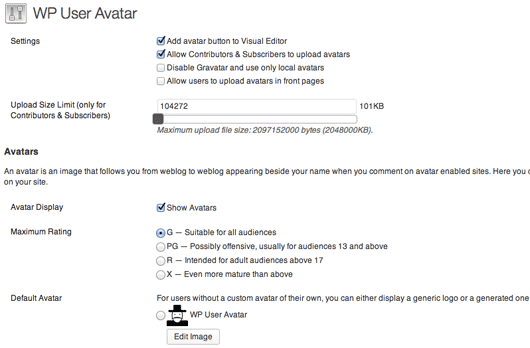
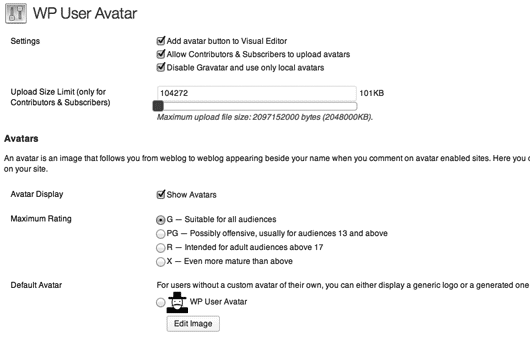
Update script loading and translations.

diff --git a/includes/tinymce/editor_plugin.js b/includes/tinymce/editor_plugin.js
@@ -1,1 +1,1 @@
-(function(){tinymce.PluginManager.requireLangPack('wpUserAvatar');tinymce.create('tinymce.plugins.wpUserAvatar',{init:function(ed,url){ed.addCommand('mceWpUserAvatar',function(){ed.windowManager.open({file:ajaxurl+'?action=wp_user_avatar_tinymce',width:500,height:265,inline:1},{plugin_url:url})});ed.addButton('wpUserAvatar',{title:'Insert WP User Avatar',cmd:'mceWpUserAvatar',image:url+'/../../images/wp-user-avatar-32x32.png'});ed.onNodeChange.add(function(ed,cm,n){cm.setActive('wpUserAvatar',n.nodeName=='IMG')})},createControl:function(n,cm){return null},getInfo:function(){return{longname:'WP User Avatar',author:'Bangbay Siboliban',authorurl:'http://siboliban.org/',infourl:'http://wordpress.org/extend/plugins/wp-user-avatar/',version:"1.5.2"}}});tinymce.PluginManager.add('wpUserAvatar',tinymce.plugins.wpUserAvatar)})();
+(function(){tinymce.PluginManager.requireLangPack('wpUserAvatar');tinymce.create('tinymce.plugins.wpUserAvatar',{init:function(ed,url){ed.addCommand('mceWpUserAvatar',function(){ed.windowManager.open({file:ajaxurl+'?action=wp_user_avatar_tinymce',width:500,height:265,inline:1},{plugin_url:url})});ed.addButton('wpUserAvatar',{title:'Insert WP User Avatar',cmd:'mceWpUserAvatar',image:url+'/../../images/wp-user-avatar-32x32.png'});ed.onNodeChange.add(function(ed,cm,n){cm.setActive('wpUserAvatar',n.nodeName=='IMG')})},createControl:function(n,cm){return null},getInfo:function(){return{longname:'WP User Avatar',author:'Bangbay Siboliban',authorurl:'http://siboliban.org/',infourl:'http://wordpress.org/extend/plugins/wp-user-avatar/',version:"1.5.3"}}});tinymce.PluginManager.add('wpUserAvatar',tinymce.plugins.wpUserAvatar)})();

diff --git a/includes/tinymce/editor_plugin.src.js b/includes/tinymce/editor_plugin.src.js
@@ -67,7 +67,7 @@
         author    : 'Bangbay Siboliban',
         authorurl : 'http://siboliban.org/',
         infourl   : 'http://wordpress.org/extend/plugins/wp-user-avatar/',
-        version   : "1.5.2"
+        version   : "1.5.3"
       };
     }
   });

diff --git a/wp-user-avatar.php b/wp-user-avatar.php
@@ -1,7 +1,7 @@
 <?php
 /**
  * @package WP User Avatar
- * @version 1.5.2
+ * @version 1.5.3
  */
 /*
 Plugin Name: WP User Avatar
@@ -9,7 +9,7 @@ Plugin URI: http://wordpress.org/plugins/wp-user-avatar/
 Description: Use any image from your WordPress Media Library as a custom user avatar. Add your own Default Avatar.
 Author: Bangbay Siboliban
 Author URI: http://siboliban.org/
-Version: 1.5.2
+Version: 1.5.3
 Text Domain: wp-user-avatar
 Domain Path: /lang/
 */
@@ -20,7 +20,7 @@ if(!defined('ABSPATH')){
 }
 
 // Define paths and variables
-define('WPUA_VERSION', '1.5.2');
+define('WPUA_VERSION', '1.5.3');
 define('WPUA_FOLDER', basename(dirname(__FILE__)));
 define('WPUA_ABSPATH', trailingslashit(str_replace('\\', '/', WP_PLUGIN_DIR.'/'.WPUA_FOLDER)));
 define('WPUA_URLPATH', trailingslashit(plugins_url(WPUA_FOLDER)));
@@ -32,7 +32,6 @@ $show_avatars = get_option('show_avatars');
 $wpua_tinymce = get_option('wp_user_avatar_tinymce');
 $wpua_allow_upload = get_option('wp_user_avatar_allow_upload');
 $wpua_disable_gravatar = get_option('wp_user_avatar_disable_gravatar');
-$wpua_load_scripts = get_option('wp_user_avatar_load_scripts');
 $mustache_original = WPUA_URLPATH.'images/wp-user-avatar.png';
 $mustache_medium = WPUA_URLPATH.'images/wp-user-avatar-300x300.png';
 $mustache_thumbnail = WPUA_URLPATH.'images/wp-user-avatar-150x150.png';
@@ -88,14 +87,9 @@ register_deactivation_hook(WPUA_ABSPATH.'wp-user-avatar.php', 'wpua_deactivate')
 // Settings saved to wp_options
 function wpua_options(){
   add_option('avatar_default_wp_user_avatar', "");
-  add_option('wp_user_avatar_tinymce', '1');
   add_option('wp_user_avatar_allow_upload', '0');
-  if(class_exists('bbPress') || class_exists('theme_my_login')){
-    add_option('wp_user_avatar_load_scripts', '1');
-  } else {
-    add_option('wp_user_avatar_load_scripts', '0');
-  }
   add_option('wp_user_avatar_disable_gravatar', '0');
+  add_option('wp_user_avatar_tinymce', '1');
   add_option('wp_user_avatar_upload_size_limit', '0');
 }
 add_action('admin_init', 'wpua_options');
@@ -263,35 +257,35 @@ function wpua_deactivate(){
 if(!class_exists('wp_user_avatar')){
   class wp_user_avatar{
     function wp_user_avatar(){
-      global $current_screen, $current_user, $pagenow, $show_avatars, $wpua_allow_upload, $wpua_load_scripts, $wpua_upload_size_limit;
+      global $current_screen, $current_user, $pagenow, $show_avatars, $wpua_allow_upload, $wpua_upload_size_limit;
       // Add WPUA to profile
       if(current_user_can('upload_files') || ((bool) $wpua_allow_upload == 1 && is_user_logged_in())){
         add_action('show_user_profile', array('wp_user_avatar', 'wpua_action_show_user_profile'));
         add_action('edit_user_profile', array($this, 'wpua_action_show_user_profile'));
         add_action('personal_options_update', array($this, 'wpua_action_process_option_update'));
         add_action('edit_user_profile_update', array($this, 'wpua_action_process_option_update'));
-        // Prefilter upload size
-        if(!current_user_can('upload_files')){
-          add_filter('wp_handle_upload_prefilter', array($this, 'wpua_handle_upload_prefilter'), 10, 1);
+        // For themes that use this function
+        if(!function_exists('get_current_screen')){
+          require_once(ABSPATH.'wp-admin/includes/screen.php');
         }
-        if(is_admin()){
-          // Add scripts to admin
+        // Load scripts only on profile pages
+        add_action('show_user_profile', array($this, 'wpua_media_upload_scripts'));
+        add_action('edit_user_profile', array($this, 'wpua_media_upload_scripts'));
+        // Add scripts to admin
+        if($pagenow == 'options-discussion.php' || ($pagenow == 'options-general.php' && $_GET['page'] == 'wp-user-avatar')){
           add_action('admin_enqueue_scripts', array($this, 'wpua_media_upload_scripts'));
-          // Admin settings
-          add_action('admin_menu', 'wpua_admin');
-          add_filter('plugin_action_links', array($this, 'wpua_plugin_settings_links'), 10, 2);
-        }
-        // Add scripts to front pages
-        if(!is_admin() && (bool) $wpua_load_scripts == 1){
-          if(!function_exists('get_current_screen')){
-            require_once(ABSPATH.'wp-admin/includes/screen.php');
-          }
-          add_action('wp_enqueue_scripts', array($this, 'wpua_media_upload_scripts'));
         }
         // Only add attachment field for WP 3.4 and older
         if(!function_exists('wp_enqueue_media') && $pagenow == 'media-upload.php'){
           add_filter('attachment_fields_to_edit', array($this, 'wpua_add_attachment_field_to_edit'), 10, 2); 
         }
+        // Prefilter upload size
+        if(!current_user_can('upload_files')){
+          add_filter('wp_handle_upload_prefilter', array($this, 'wpua_handle_upload_prefilter'), 10, 1);
+        }
+        // Admin menu settings
+        add_action('admin_menu', 'wpua_admin');
+        add_filter('plugin_action_links', array($this, 'wpua_plugin_settings_links'), 10, 2);
         // Hide column in Users table if default avatars are enabled
         if(is_admin() && (bool) $show_avatars == 0){
           add_filter('manage_users_columns', array($this, 'wpua_add_column'), 10, 1);
@@ -302,13 +296,13 @@ if(!class_exists('wp_user_avatar')){
 
     // Add to edit user profile
     function wpua_action_show_user_profile($user){
-      global $blog_id, $current_user, $show_avatars, $wpdb, $wpua_upload_size_limit_with_units;
+      global $blog_id, $current_user, $post, $show_avatars, $wpdb, $wpua_allow_upload, $wpua_upload_size_limit_with_units;
       // Get WPUA attachment ID
       $wpua = get_user_meta($user->ID, $wpdb->get_blog_prefix($blog_id).'user_avatar', true);
       // Show remove button if WPUA is set
       $hide_remove = !has_wp_user_avatar($user->ID) ? ' hide-me' : "";
       // If avatars are enabled, get original avatar image or show blank
-      $avatar_medium_src = (is_admin() && (bool) $show_avatars == 1) ? wpua_get_avatar_original($user->user_email, 96) : includes_url().'images/blank.gif';
+      $avatar_medium_src = (bool) $show_avatars == 1 ? wpua_get_avatar_original($user->user_email, 96) : includes_url().'images/blank.gif';
       // Check if user has wp_user_avatar, if not show image from above
       $avatar_medium = has_wp_user_avatar($user->ID) ? get_wp_user_avatar_src($user->ID, 'medium') : $avatar_medium_src;
       // Check if user has wp_user_avatar, if not show image from above
@@ -316,7 +310,7 @@ if(!class_exists('wp_user_avatar')){
       // Change text on message based on current user
       $profile = ($current_user->ID == $user->ID) ? '&ldquo;'.__('Update Profile').'&rdquo;' : '&ldquo;'.__('Update User').'&rdquo;';
     ?>
-      <?php if(class_exists('bbPress') && !is_admin()) : // Add to bbPress profile with same style ?>
+      <?php if(class_exists('bbPress') && !is_admin() && $post->ID == 0) : // Add to bbPress profile with same style ?>
         <h2 class="entry-title"><?php _e('WP User Avatar', 'wp-user-avatar'); ?></h2>
         <fieldset class="bbp-form">
           <legend><?php _e('WP User Avatar', 'wp-user-avatar'); ?></legend>
@@ -352,7 +346,7 @@ if(!class_exists('wp_user_avatar')){
       </p>
       <p><button type="button" class="button<?php echo $hide_remove; ?>" id="wpua-remove" name="wpua-remove"><?php _e('Remove'); ?></button></p>
       <p id="wpua-message"><?php printf(__('Click %s to save your changes', 'wp-user-avatar'), $profile); ?></p>
-      <?php if(class_exists('bbPress') && !is_admin()) : // Add to bbPress profile with same style ?>
+      <?php if(class_exists('bbPress') && !is_admin() && $post->ID == 0) : // Add to bbPress profile with same style ?>
         </fieldset>
       <?php else : // Add to profile with admin style ?>
             </td>
@@ -360,7 +354,7 @@ if(!class_exists('wp_user_avatar')){
         </table>
       <?php endif; ?>
       <?php echo wpua_js($user->display_name, $avatar_medium_src); // Add JS ?>
-      <?php
+    <?php
     }
 
     // Set upload size limit for users without upload_files capability
@@ -495,11 +489,11 @@ if(!class_exists('wp_user_avatar')){
           wp_enqueue_script('thickbox');
           wp_enqueue_style('thickbox');
         }
-         wp_enqueue_script('jquery-ui-slider');
       }
       wp_enqueue_script('wp-user-avatar', WPUA_URLPATH.'js/wp-user-avatar.js', array('jquery'), WPUA_VERSION);
       wp_enqueue_style('wp-user-avatar', WPUA_URLPATH.'css/wp-user-avatar.css', "", WPUA_VERSION);
-      if($pagenow == 'options-general.php'){
+      if($pagenow == 'options-general.php' && $_GET['page'] == 'wp-user-avatar'){
+        wp_enqueue_script('jquery-ui-slider');
         wp_enqueue_style('wp-user-avatar-jqueryui', WPUA_URLPATH.'css/jquery.ui.slider.css', "", null);
       }
     }
@@ -610,11 +604,11 @@ if(!class_exists('wp_user_avatar')){
   // Get original avatar, for when user removes wp_user_avatar
   function wpua_get_avatar_original($id_or_email, $size="", $default="", $alt=""){
     global $avatar_default, $mustache_avatar, $wpua_avatar_default, $wpua_disable_gravatar;
-    // Remove get_avatar filter
+    // Remove get_avatar filter only in admin
     if(is_admin()){
       remove_filter('get_avatar', 'wpua_get_avatar_filter');
     }
-    if($wpua_disable_gravatar != 1){
+    if((bool) $wpua_disable_gravatar != 1){
       // User doesn't have Gravatar and Default Avatar is wp_user_avatar, show custom Default Avatar
       if(!wpua_has_gravatar($id_or_email) && $avatar_default == 'wp_user_avatar'){
         // Show custom Default Avatar
@@ -870,7 +864,7 @@ if(!class_exists('wp_user_avatar')){
 
   // Admin page
   function wpua_options_page(){
-    global $show_avatars, $upload_size_limit_with_units, $wpua_allow_upload, $wpua_disable_gravatar, $wpua_load_scripts, $wpua_tinymce, $wpua_upload_size_limit, $wpua_upload_size_limit_with_units;
+    global $show_avatars, $upload_size_limit_with_units, $wpua_allow_upload, $wpua_disable_gravatar, $wpua_tinymce, $wpua_upload_size_limit, $wpua_upload_size_limit_with_units;
     // Give subscribers edit_posts capability
     if(isset($_GET['settings-updated']) && $_GET['settings-updated'] == 'true' && empty($wpua_allow_upload)){
       wpua_subscriber_remove_cap();
@@ -902,14 +896,10 @@ if(!class_exists('wp_user_avatar')){
                   <input name="wp_user_avatar_disable_gravatar" type="checkbox" id="wp_user_avatar_disable_gravatar" value="1" <?php checked($wpua_disable_gravatar, 1); ?> />
                   <?php _e('Disable Gravatar and use only local avatars', 'wp-user-avatar'); ?>
                 </label>
-                <label for="wp_user_avatar_load_scripts" class="wpua_label">
-                  <input name="wp_user_avatar_load_scripts" type="checkbox" id="wp_user_avatar_load_scripts" value="1" <?php checked($wpua_load_scripts, 1); ?> />
-                  <?php _e('Allow users to upload avatars in front pages', 'wp-user-avatar'); ?>
-                </label>
               </fieldset>
             </td>
           </tr>
-          <tr id="wp-size-upload-limit-settings" valign="top"<?php echo $hide_size; ?>>
+          <tr id="wpua-size-limit" valign="top"<?php echo $hide_size; ?>>
             <th scope="row">
               <label for="wp_user_avatar_upload_size_limit" class="wpua_label">
                 <?php _e('Upload Size Limit (only for Contributors & Subscribers)', 'wp-user-avatar'); ?>
@@ -922,46 +912,7 @@ if(!class_exists('wp_user_avatar')){
                 <span id="wpua-readable-size"><?php echo $wpua_upload_size_limit_with_units; ?></span>
                 <span id="wpua-readable-size-error"><?php printf(__('%s exceeds the maximum upload size for this site.'), ''); ?></span>
                 <div id="wpua-slider"></div>
-                <script type="text/javascript">
-                  jQuery(function(){
-                    // Show size info only if allow uploads is checked
-                    jQuery('#wp_user_avatar_allow_upload').change(function(){
-                      jQuery('#wp-size-upload-limit-settings').toggle(jQuery('#wp_user_avatar_allow_upload').is(':checked'));
-                    });
-                    // Hide Gravatars if disable Gravatars is checked
-                    jQuery('#wp_user_avatar_disable_gravatar').change(function(){
-                      if(jQuery('#wp-avatars').length){
-                        jQuery('#wp-avatars').toggle(!jQuery('#wp_user_avatar_disable_gravatar').is(':checked'));
-                        jQuery('#wp_user_avatar_radio').trigger('click');
-                      }
-                      jQuery('#wpua-message').show();
-                    });
-                    // Add size slider
-                    jQuery('#wpua-slider').slider({
-                      value: <?php echo $wpua_upload_size_limit; ?>,
-                      min: 0,
-                      max: <?php echo wp_max_upload_size(); ?>,
-                      step: 1,
-                      slide: function(event, ui){
-                        jQuery('#wp_user_avatar_upload_size_limit').val(ui.value);
-                        jQuery('#wpua-readable-size').html(Math.floor(ui.value / 1024) + 'KB');
-                        jQuery('#wpua-readable-size-error').hide();
-                        jQuery('#wpua-readable-size').removeClass('wpua-error');
-                      }
-                    });
-                    // Update readable size on keyup
-                    jQuery('#wp_user_avatar_upload_size_limit').keyup(function(){
-                      var wpua_upload_size_limit = jQuery(this).val();
-                      wpua_upload_size_limit = wpua_upload_size_limit.replace(/\D/g, '');
-                      // jQuery(this).val(wpua_upload_size_limit);
-                      jQuery('#wpua-readable-size').html(Math.floor(wpua_upload_size_limit / 1024) + 'KB');
-                      jQuery('#wpua-readable-size-error').toggle(wpua_upload_size_limit > <?php echo wp_max_upload_size(); ?>);
-                      jQuery('#wpua-readable-size').toggleClass('wpua-error', wpua_upload_size_limit > <?php echo wp_max_upload_size(); ?>);
-                    });
-                    jQuery('#wp_user_avatar_upload_size_limit').val(jQuery('#wpua-slider').slider('value'));
-                  });
-                </script>
-                <span class="description"><?php printf(__('Maximum upload file size: %d%s.'), esc_html(wp_max_upload_size()), esc_html(' bytes ('.$upload_size_limit_with_units.')')); ?></span>
+               <span class="description"><?php printf(__('Maximum upload file size: %d%s.'), esc_html(wp_max_upload_size()), esc_html(' bytes ('.$upload_size_limit_with_units.')')); ?></span>
               </fieldset>
             </td>
           </tr>
@@ -1015,7 +966,54 @@ if(!class_exists('wp_user_avatar')){
         <?php submit_button(); ?>
       </form>
     </div>
-    <?php
+  <?php
+    add_action('admin_footer', 'wpua_options_page_scripts');
+  }
+
+  // Admin page scripts
+  function wpua_options_page_scripts(){
+    global $wpua_upload_size_limit;
+  ?>
+    <script type="text/javascript">
+      jQuery(function(){
+        // Show size info only if allow uploads is checked
+        jQuery('#wp_user_avatar_allow_upload').change(function(){
+          jQuery('#wpua-size-limit').toggle(jQuery('#wp_user_avatar_allow_upload').is(':checked'));
+        });
+        // Hide Gravatars if disable Gravatars is checked
+        jQuery('#wp_user_avatar_disable_gravatar').change(function(){
+          if(jQuery('#wp-avatars').length){
+            jQuery('#wp-avatars').toggle(!jQuery('#wp_user_avatar_disable_gravatar').is(':checked'));
+            jQuery('#wp_user_avatar_radio').trigger('click');
+          }
+          jQuery('#wpua-message').show();
+        });
+        // Add size slider
+        jQuery('#wpua-slider').slider({
+          value: <?php echo $wpua_upload_size_limit; ?>,
+          min: 0,
+          max: <?php echo wp_max_upload_size(); ?>,
+          step: 1,
+          slide: function(event, ui){
+            jQuery('#wp_user_avatar_upload_size_limit').val(ui.value);
+            jQuery('#wpua-readable-size').html(Math.floor(ui.value / 1024) + 'KB');
+            jQuery('#wpua-readable-size-error').hide();
+            jQuery('#wpua-readable-size').removeClass('wpua-error');
+          }
+        });
+        // Update readable size on keyup
+        jQuery('#wp_user_avatar_upload_size_limit').keyup(function(){
+          var wpua_upload_size_limit = jQuery(this).val();
+          wpua_upload_size_limit = wpua_upload_size_limit.replace(/\D/g, '');
+          jQuery(this).val(wpua_upload_size_limit);
+          jQuery('#wpua-readable-size').html(Math.floor(wpua_upload_size_limit / 1024) + 'KB');
+          jQuery('#wpua-readable-size-error').toggle(wpua_upload_size_limit > <?php echo wp_max_upload_size(); ?>);
+          jQuery('#wpua-readable-size').toggleClass('wpua-error', wpua_upload_size_limit > <?php echo wp_max_upload_size(); ?>);
+        });
+        jQuery('#wp_user_avatar_upload_size_limit').val(jQuery('#wpua-slider').slider('value'));
+      });
+    </script>
+  <?php
   }
 
   // Whitelist settings
@@ -1023,7 +1021,6 @@ if(!class_exists('wp_user_avatar')){
     register_setting('wpua-settings-group', 'wp_user_avatar_tinymce', 'intval');
     register_setting('wpua-settings-group', 'wp_user_avatar_allow_upload', 'intval');
     register_setting('wpua-settings-group', 'wp_user_avatar_disable_gravatar', 'intval');
-    register_setting('wpua-settings-group', 'wp_user_avatar_load_scripts', 'intval');
     register_setting('wpua-settings-group', 'wp_user_avatar_upload_size_limit', 'intval');
     register_setting('wpua-settings-group', 'show_avatars', 'intval');
     register_setting('wpua-settings-group', 'avatar_rating');

diff --git a/uninstall.php b/uninstall.php
@@ -1,7 +1,7 @@
 <?php
 /**
  * @package WP User Avatar
- * @version 1.5.2
+ * @version 1.5.3
  */
 
 // Remove user metadata and options on plugin delete

diff --git a/includes/tinymce.php b/includes/tinymce.php
@@ -1,7 +1,7 @@
 <?php
 /**
  * @package WP User Avatar
- * @version 1.5.2
+ * @version 1.5.3
  */
 
 if(!defined('ABSPATH')){

diff --git a/includes/tinymce/window.php b/includes/tinymce/window.php
@@ -1,7 +1,7 @@
 <?php
 /**
  * @package WP User Avatar
- * @version 1.5.2
+ * @version 1.5.3
  */
 
 if(!defined('ABSPATH')){

diff --git a/README.md b/README.md
@@ -4,13 +4,13 @@ Download the plugin at: http://wordpress.org/extend/plugins/wp-user-avatar/
 
 **Description**
 
-WordPress currently only allows you to use custom avatars that are uploaded through [gravatar.com](http://gravatar.com/). WP User Avatar enables you to use any photo uploaded into your Media Library as an avatar. This means you use the same uploader and library as your posts. No extra folders or image editing functions are necessary.
+WordPress currently only allows you to use custom avatars that are uploaded through [Gravatar](http://gravatar.com/). WP User Avatar enables you to use any photo uploaded into your Media Library as an avatar. This means you use the same uploader and library as your posts. No extra folders or image editing functions are necessary.
 
 WP User Avatar also lets you:
 
 * Upload your own Default Avatar in your Discussion settings.
-* Show the user's [gravatar.com](http://gravatar.com/) avatar or Default Avatar if the user doesn't have a WP User Avatar image.
-* Disable [gravatar.com](http://gravatar.com/) avatars and use only local avatars.
+* Show the user's [Gravatar](http://gravatar.com/) avatar or Default Avatar if the user doesn't have a WP User Avatar image.
+* Disable [Gravatar](http://gravatar.com/) avatars and use only local avatars.
 * Use the <code>[avatar]</code> shortcode in your posts. The shortcode will work with any theme, whether it has avatar support or not.
 * Allow Contributors and Subscribers to upload their own avatars.
 * Limit upload file size for Contributors and Subscribers.
